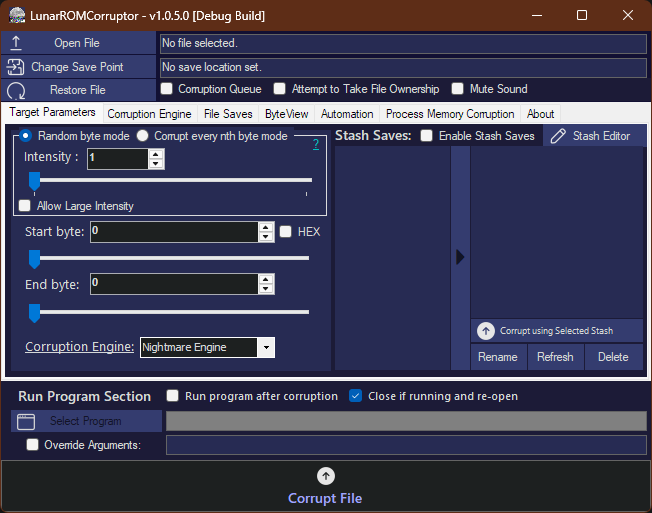
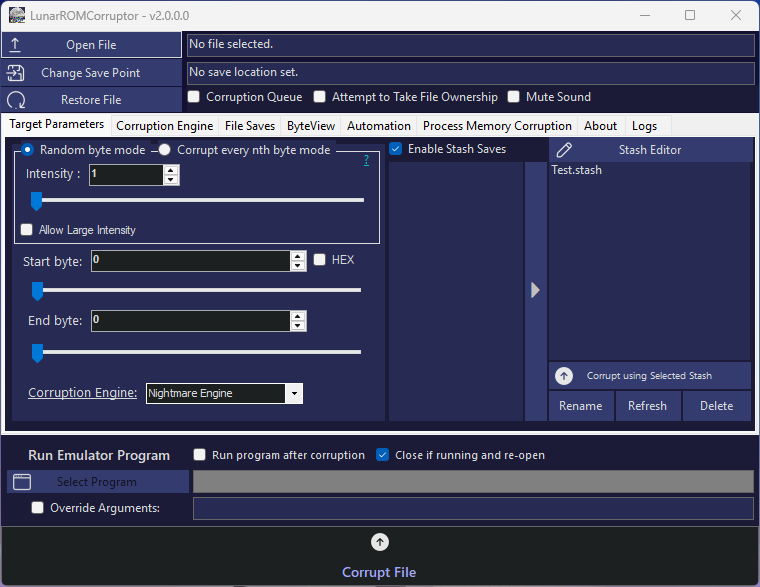
New Readme, removed old resources
Also slightly changed form look.

Changed region(s): [[0.0, 0.0, 1.0, 0.9045], [0.0, 0.8421, 1.0, 1.0], [0.6748, 0.4678, 0.7362, 0.5302]]

diff --git a/LunarROMCorruptor/Forms/MainCorruptionForm.Designer.cs b/LunarROMCorruptor/Forms/MainCorruptionForm.Designer.cs
@@ -144,6 +144,7 @@
             label1 = new Label();
             pictureBox1 = new PictureBox();
             tabPage1 = new TabPage();
+            TraceLoggerTxtBox = new RichTextBox();
             SaveLogBtn = new Button();
             Panel2 = new Panel();
             CorruptButton = new Button();
@@ -170,7 +171,6 @@
             StartEmulatorlbl = new Label();
             StartEmulatorPanel = new Panel();
             BrowseEmulatorbutton = new Button();
-            TraceLoggerTxtBox = new RichTextBox();
             FileSaveTab.SuspendLayout();
             FileCorruptionTab.SuspendLayout();
             Panel4.SuspendLayout();
@@ -832,7 +832,7 @@
             Corruptusingstashbtn.BackColor = Color.FromArgb(52, 60, 111);
             Corruptusingstashbtn.FlatAppearance.BorderSize = 0;
             Corruptusingstashbtn.FlatStyle = FlatStyle.Flat;
-            Corruptusingstashbtn.Font = new Font("Segoe UI", 6.5F, FontStyle.Regular, GraphicsUnit.Point, 0);
+            Corruptusingstashbtn.Font = new Font("Segoe UI", 7F, FontStyle.Regular, GraphicsUnit.Point, 0);
             Corruptusingstashbtn.ForeColor = Color.FromArgb(213, 216, 216);
             Corruptusingstashbtn.Image = Properties.Resources.arrow_up_circle_solid;
             Corruptusingstashbtn.ImageAlign = ContentAlignment.MiddleLeft;
@@ -1874,6 +1874,16 @@
             tabPage1.Text = "Logs";
             tabPage1.UseVisualStyleBackColor = true;
             // 
+            // TraceLoggerTxtBox
+            // 
+            TraceLoggerTxtBox.Dock = DockStyle.Fill;
+            TraceLoggerTxtBox.Location = new Point(0, 0);
+            TraceLoggerTxtBox.Name = "TraceLoggerTxtBox";
+            TraceLoggerTxtBox.ReadOnly = true;
+            TraceLoggerTxtBox.Size = new Size(750, 267);
+            TraceLoggerTxtBox.TabIndex = 3;
+            TraceLoggerTxtBox.Text = "";
+            // 
             // SaveLogBtn
             // 
             SaveLogBtn.BackColor = Color.FromArgb(52, 60, 111);
@@ -2196,16 +2206,6 @@
             BrowseEmulatorbutton.Text = "Select Program";
             BrowseEmulatorbutton.UseVisualStyleBackColor = false;
             BrowseEmulatorbutton.Click += BrowseEmulatorbutton_Click;
-            // 
-            // TraceLoggerTxtBox
-            // 
-            TraceLoggerTxtBox.Dock = DockStyle.Fill;
-            TraceLoggerTxtBox.Location = new Point(0, 0);
-            TraceLoggerTxtBox.Name = "TraceLoggerTxtBox";
-            TraceLoggerTxtBox.ReadOnly = true;
-            TraceLoggerTxtBox.Size = new Size(750, 267);
-            TraceLoggerTxtBox.TabIndex = 3;
-            TraceLoggerTxtBox.Text = "";
             // 
             // MainCorruptionForm
             // 

diff --git a/README.md b/README.md
@@ -1,125 +1,118 @@
-<p align="center">
-    <img src="static/images/icon.png" alt="LunarROMCorruptor Icon" />
-</p>
+<div align="center">
+
+<img src="static/images/icon.png" alt="LunarROMCorruptor Icon" width="128" height="128" />
 
 # LunarROMCorruptor
 
-[![CodeFactor](https://www.codefactor.io/repository/github/lloyd99901/lunarromcorruptor/badge)](https://www.codefactor.io/repository/github/lloyd99901/lunarromcorruptor)
-[![GitHub issues](https://img.shields.io/github/issues/lloyd99901/LunarROMCorruptor)](https://github.com/lloyd99901/LunarROMCorruptor/issues)
-[![GitHub stars](https://img.shields.io/github/stars/lloyd99901/LunarROMCorruptor)](https://github.com/lloyd99901/LunarROMCorruptor/stargazers)
-[![GitHub license](https://img.shields.io/github/license/lloyd99901/LunarROMCorruptor)](https://github.com/lloyd99901/LunarROMCorruptor/blob/master/LICENSE)
+**Versatile, multi-engine file corruption for ROMs and any binary data.**
 
-## Corrupt any file(s) (not just ROMs!) using multiple different engines
+[![GitHub issues](https://img.shields.io/github/issues/DimonByte/LunarROMCorruptor?distro=true)](https://github.com/lloyd99901/LunarROMCorruptor/issues)
+[![GitHub stars](https://img.shields.io/github/stars/DimonByte/LunarROMCorruptor)](https://github.com/lloyd99901/LunarROMCorruptor/stargazers)
+[![GitHub license](https://img.shields.io/github/license/DimonByte/LunarROMCorruptor)](https://github.com/lloyd99901/LunarROMCorruptor/blob/master/LICENSE)
+![GitHub CodeQL](https://github.com/DimonByte/LunarROMCorruptor/actions/workflows/codeql.yml/badge.svg)
+![GitHub DOTNET](https://github.com/DimonByte/LunarROMCorruptor/actions/workflows/dotnet-desktop.yml/badge.svg)
 
-![MainWindow](https://raw.githubusercontent.com/lloyd99901/LunarROMCorruptor/master/static/images/MainInterface.png)
+</div>
 
-## Features
+---
 
-### Corrupt the way **you** want to
-Tailor your corruption to perfection with this versatile corruptor. With countless customization options, you have complete control over how the corruptor operates, allowing you to achieve the perfect level of corruption every time.
+## Overview
 
-### Corrupt Every Nth Byte and Intensity Mode
-With Corrupt Every Nth Byte, you can apply regular corruptions to your file by specifying the interval to corrupt (e.g., every 1st byte, every 2nd byte, etc.). On the other hand, Intensity allows for randomized corruptions, where the corruptor selects random addresses to modify.
+LunarROMCorruptor is a advanced tool designed to corrupt binary data through various algorithmic engines. While optimized for ROM hacking, its capabilities extend to **any file format**. Whether you are looking for random bit-flips or complex mathematical interpolation, LunarROMCorruptor provides the precision tools needed for high-quality glitch art.
 
-### File Saves and Stash Saves
-After you've found the perfect corruption, you can choose to save your progress using either the File Save or the Stash Save features. The File Save option makes a copy of the entire corrupted file and stores it in the 'Saves' directory.
+<div align="center">
+    <img src="https://raw.githubusercontent.com/lloyd99901/LunarROMCorruptor/master/static/images/MainInterface.png" alt="Main Interface Screenshot" width="60%" />
+</div>
 
-On the other hand, the Stash Save feature saves only the addresses of the changed bytes and their new values, which takes up less space. In addition to the Stash Save, there's a stash editor that allows you to fine-tune the corrupted bytes and addresses to achieve the desired effect.
+---
 
-![StashEdit](https://raw.githubusercontent.com/lloyd99901/LunarROMCorruptor/master/static/images/StashEdit.png)
+## Key Features
 
-For instance, let's say there's a corruption that alters the color of Mario in Super Mario Bros but crashes the game when you try to start it. You can use the stash editor to remove the bytes that cause the crash and retain the byte responsible for changing the color. This functionality is similar to how the Stash Saves and Editor work on the Windows Glitch Harvester.
+| Feature | Description |
+| :--- | :--- |
+| **Multi-Engine Support** | Switch between Nightmare, Merge, Logic, and Lerp engines seamlessly. |
+| **Precision Control** | Use "Every Nth Byte" or "Intensity Mode" for predictable or chaotic corruption. |
+| **Smart Saving** | Use **File Saves** for full copies or **Stash Saves** (address-only) to save massive amounts of space. |
+| **Stash Editor** | Fine-tune specific corrupted bytes without re-running the entire process. |
+| **ByteView** | Visualize binary data as RGB/Grayscale pixels to "see" the bytes change. |
+| **Automation** | Automate randomization of intensity, byte ranges, and engine selection. |
+| **Batch Processing** | Drag-and-drop entire folders or multiple files for mass corruption. |
 
-### Corrupt multiple files
-Not only can you corrupt just a ROM or a singular file, you can use this corruptor to corrupt several files or even select an entire folder of files to corrupt.
+---
 
-![MainWindow](https://raw.githubusercontent.com/lloyd99901/LunarROMCorruptor/master/static/images/CorruptionQueue.png)
+## Corruption Engines
 
-### Corruption Engines
-Here are the following corruption engines that come with LunarROMCorruptor
- - Nightmare Engine:
+LunarROMCorruptor utilizes distinct algorithms to achieve different "flavors" of corruption.
 
-   A simple, yet effective way of corrupting files, with three corruption modes: RANDOM, RANDOMTILT and TILT.
+| Engine | Logic Type | Best For... |
+| :--- | :--- | :--- |
+| **Nightmare** | Random/Tilt | Classic, chaotic bit-flipping and value shifting. |
+| **Merge** | Pattern Injection |  Injection	Overwriting random ROM addresses with data from any source file (e.g., injecting video noise into a ROM). |
+| **Logic** | Bitwise Ops | Advanced manipulation using `AND`, `OR`, `XNOR`, `SHIFT`, etc. |
+| **Lerp** | Interpolation | Smooth, gradient-based transitions between byte values. |
+| **Manual** | User Defined | Complete manual control over every single operation. |
 
-    -RANDOM
+#### The Nightmare Engine Modes:
+*   `RANDOM`: Sets selected bytes to a random value (0-255).
+*   `RANDOMTILT`: Randomly adds or subtracts a user-defined offset.
+*   `TILT`: Applies a fixed mathematical shift (e.g., `Value + 10`).
 
-     The selected byte gets set with a random value of 0 to 255.
+#### The Merge Engine Modes:
+*   `File Selection`: The file that will have its bytes copied from. This file wont be changed.
+*   `Replace byte with the byte at the same position`: The merge file and the ROM will be checked to see if there is a byte in the random address LRC chose. If there is the merge file byte will override the ROM byte at the ROM byte address selected.
+*   `Corruption Type`: NONE or RANGE.
+*   `MOD 256`
 
-    -RANDOMTILT
+#### The Lerp Engine Modes:
+*   `Split Value`: Sets the interpolation value.
 
-     The selected byte gets set with a random value of 0 to 255 or a user specified value gets added/subtracted from the byte.
+#### The Logic Engine Modes:
+*   `Operation Type`: AND, OR, XOR, NOT, NAND, NOR, SWAP, SHIFT
 
-    -TILT
+---
 
-     The selected byte will have its value added or subtracted by a user specified value. (e.g. 255 - 3, 242 + 1)
+## Visualizing Data with ByteView
 
- - Merge Engine
+The built-in **ByteView** transforms binary data into a visual image. By mapping byte values to RGB or grayscale pixels, you can observe patterns that are invisible in a standard hex editor. The view updates in real-time as you apply corruption engines.
 
-   An engine that copies bytes from one file to the other to create corruption (For example, 'merging' bytes from Super Mario Bros. with Donkey Kong bytes).
-   
- - Logic Engine
+<div align="center">
+    <img src="https://raw.githubusercontent.com/lloyd99901/LunarROMCorruptor/master/static/images/ByteView.png" alt="ByteView Screenshot" width="50%" />
+</div>
 
-   An engine that uses bitwise/logical operations on two selected bytes.
-   
-        AND
-        OR
-        XOR
-        NOT
-        NAND
-        NOR
-        SWAP
-        SHIFT
-   
- - Lerp Engine
+---
 
-   An engine that takes the 2 neighbouring bytes where the selected byte is and corrupts the selected byte by using linear interpolation
-   (e.g. 0 21 100 would become 0 50 100 if the Lerp Setting was set to 0.5)
+## Safety & Disclaimer
 
- - Manual Engine
+> [!CAUTION]
+> **CORRUPTION WARNING**
+>
+> *   **Epilepsy Warning:** Corruption can result in rapid, flashing imagery. Use with caution.
+> *   **System Stability:** Corrupting critical system files (like `system32`) can cause irreversible OS damage. Always use a Virtual Machine for testing.
+*   **Anti-Cheat Risk:** Using this tool on online games or protected software **will likely result in permanent account bans**. 
+*   **No Warranty:** This software is provided **"AS IS"**. The developer is not responsible for any data loss, hardware instability (BSOD), or loss of access to digital accounts.
 
-   (User manually enables and sets what types of corruption takes place in the file.)
+---
 
-### ByteView
-ByteView is a utility designed to provide users with a visual representation of binary content, offering users a visual representation via RGB or grayscale pixels. This tool provides a structured interface for the observation and analysis of byte values. ByteView is particularly useful for those seeking a non-intrusive approach to examining the underlying byte information within files. It also updates the ByteView when you corrupt the file, allowing the user to see the changes to the file with visuals.
+## Technical Requirements
 
-![ByteView](https://raw.githubusercontent.com/lloyd99901/LunarROMCorruptor/master/static/images/ByteView.png)
+*   **Runtime:** `.NET Core 10.0`
+*   **Development Environment:** `Microsoft Visual Studio 2026` (Recommended)
+*   **Platform:** Windows
 
-### Misc
-- With more engines and settings to play around with, the more interesting results you can get with the engines.
-- Allows drag and drop. No need to search for the file you want to corrupt.
-- Can run an emulator after corruption.
-- Audible feedback when corruption is done.
-- Corrupt multiple files.
-- Saves settings.
-- Automation. (Randomize the intensity, start & end byte, randomize the corruption engine and even corrupt the file automatically using automation)
-
-## Progress
-- [x] Import GUI from the old project
-- [x] Fully convert the VB.NET code from the old project and convert to C#
-- [x] Do bug testing
-- [x] Code Refactoring (Optimize the engines, code cleanup, etc)
-
-## About
-This project started around 2019 and was originally made in VB.NET. I was fascinated by other corruptors and wanted to make my own. The project was finished in the same year, but since the code was very messy, I decided not to release it.
-
-A year later, I decided to remake it in C#, mainly because I want to teach myself more C#, but also to do some code refactoring to make it more optimized.
-
-LunarROMCorruptor uses engines to corrupt files, each engine has its usage and its own settings that can be changed.
-I've included the Nightmare Engine, which is an engine from the Windows Glitch Harvester, into the project so that people that are most familiar with that engine can use it.
-
-### Requirements
-.NET Framework 4.7.2 is required to run the program.
-For development, Microsoft Visual Studio Community 2022 is recommended.
 ## Contributing
-Pull requests are welcome. Major and minor.
-## Notes
-Active development is in the unstable branch of this repo. The master branch is for stable updates.
+
+Contributions welcome!
+
+1. Fork the Project
+2. Create your Feature Branch (`git checkout -b feature/Feature`)
+3. Commit your Changes (`git commit -m 'Add some Feature'`)
+4. Push to the Branch (`git push origin feature/Feature`)
+5. Open a Pull Request
 
 ## License
-[MIT](https://choosealicense.com/licenses/mit/)
 
-## Corruption Warning
-- If you have epilepsy, it is advisable to refrain from participating in corruption activities, due to the flashing imagery that may occur with corruptions.
-- When corrupting specific games, there's a remote possibility of encountering a Blue Screen of Death (BSOD). Although BSOD occurrences are infrequent and generally don't cause major harm to your computer, they will prompt an automatic restart. Always ensure you save any ongoing work before engaging in corruption to avoid data loss.
-- Using this corruptor in online games or those protected by anti-cheat software may result in account bans. Additionally, refrain from corrupting essential system files, such as system32, as it can lead to irreversible damage to personal or critical system data. If you really want to, do it in a virutal machine to minimize potential risks.
-- It is essential to recognize that this program comes with no warranties of any kind and is provided "AS IS." Users are personally responsible for backing up their data before use and for any consequences arising from the appropriate or inappropriate use of the program. Refrain from corrupting multiplayer game files, as anti-cheat software may be triggered.
+Distributed under the **MIT License**. See `LICENSE` for more information.
+
+<div align="center">
+<sub>Built for Corruption</sub>
+</div>